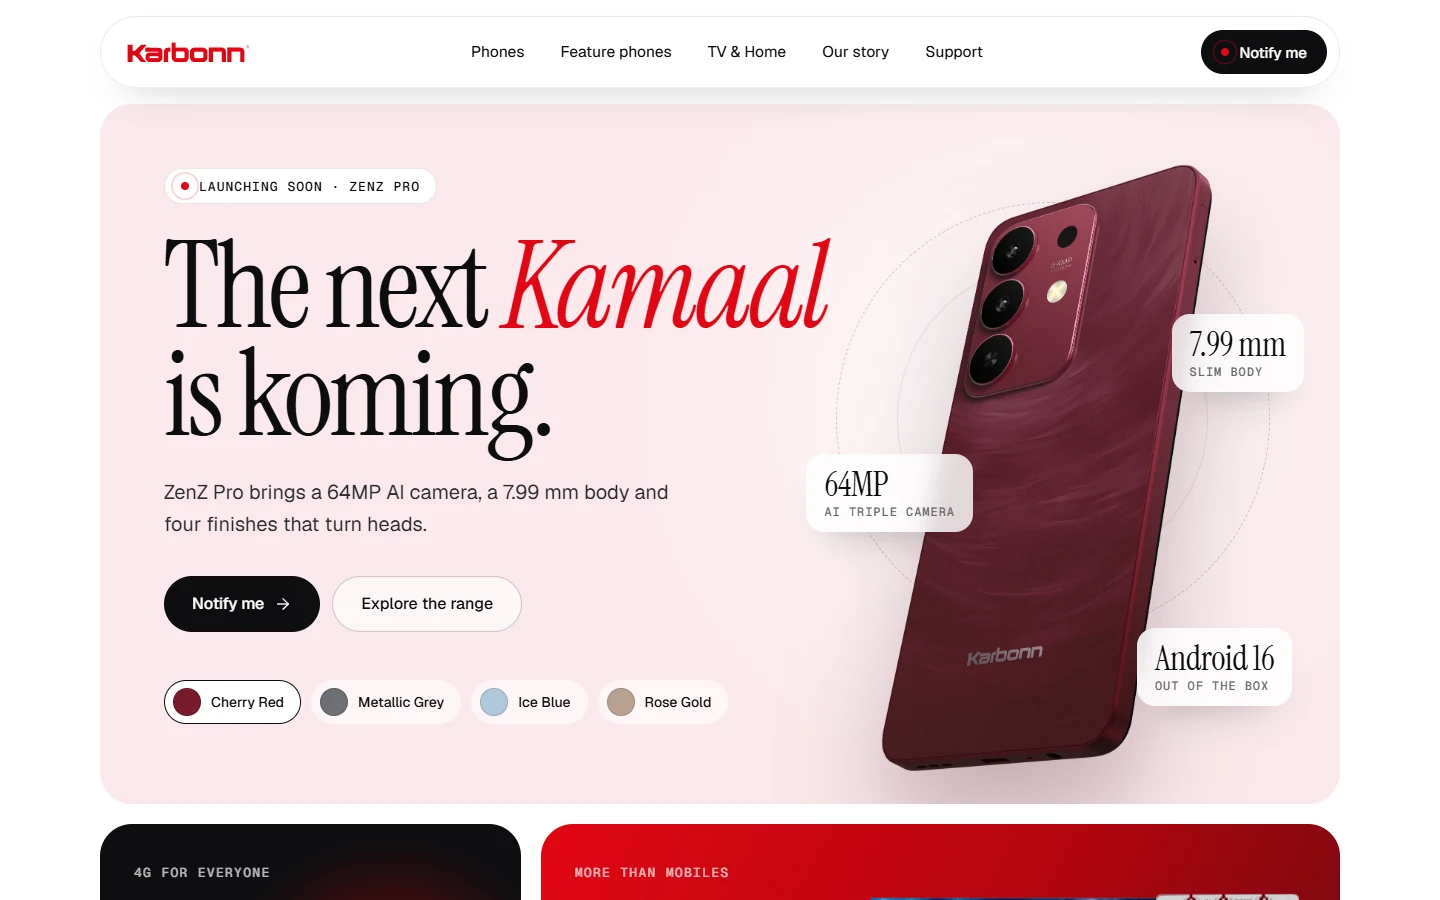
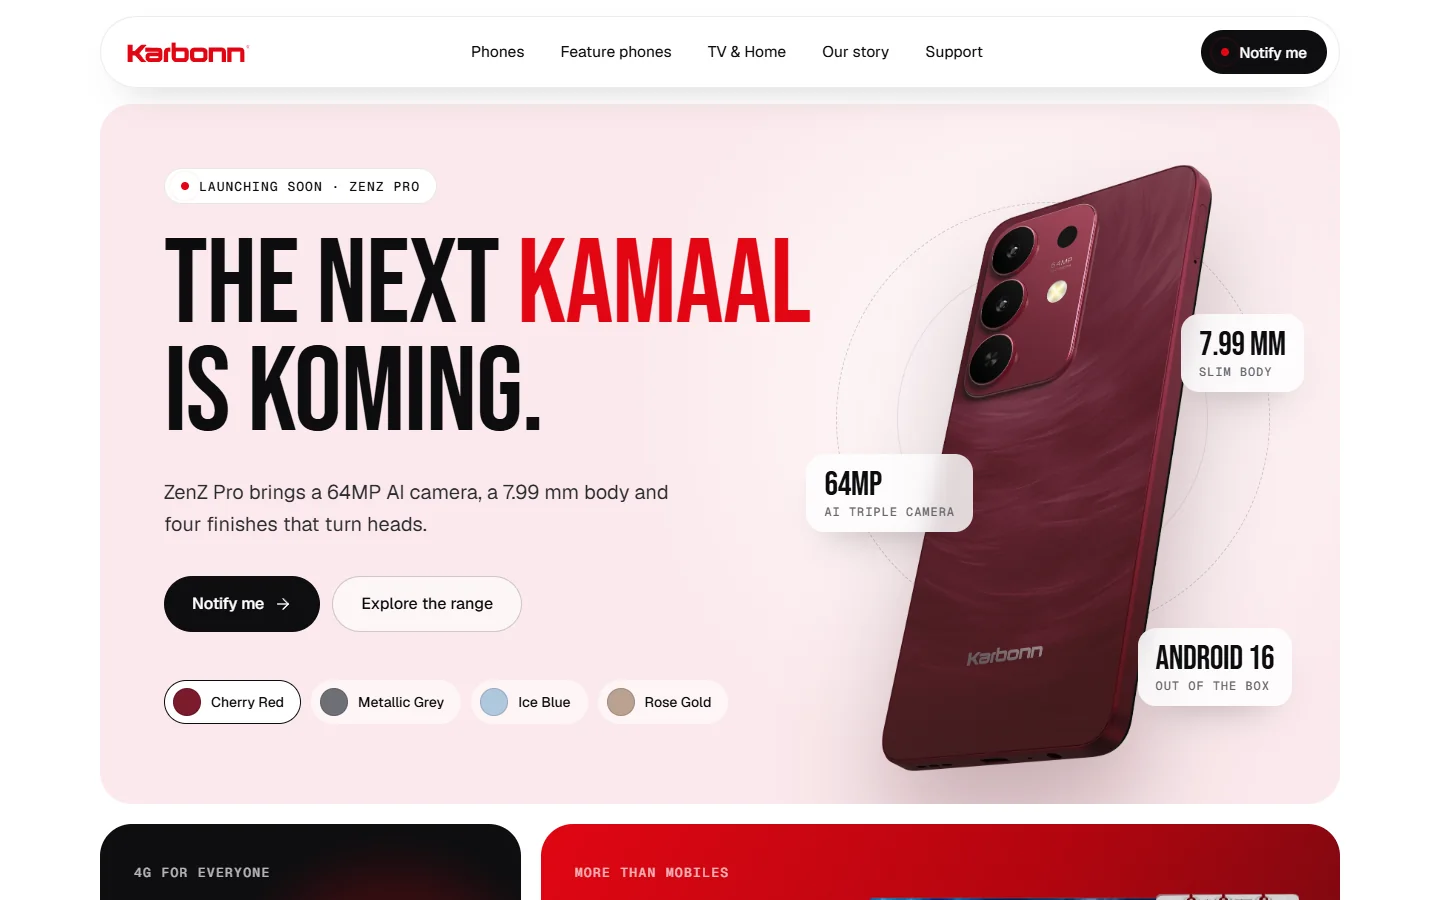
Use Bebas Neue for Site B display type
Replace Instrument Serif with self-hosted Bebas Neue for Site B's headlines,
big numbers, prices and marquees. Bebas Neue has no italic, so the red
accents stay upright, and the negative letter-spacing is eased to -0.01em
to suit its wider default spacing. Its latin-ext subset ships too, so the
rupee sign renders in Bebas Neue. The chooser's Concept B thumbnail is
refreshed to match.

diff --git a/site-b-launch/css/site.css b/site-b-launch/css/site.css
@@ -16,7 +16,7 @@
   --wine: #7A0E1C;
   --black: #0E0E10;
   --tint: #FBE9EC;
-  --display: 'Instrument Serif', Georgia, 'Times New Roman', serif;
+  --display: 'Bebas Neue', Impact, 'Arial Narrow', sans-serif;
   --sans: 'Geist', -apple-system, 'Segoe UI', Helvetica, Arial, sans-serif;
   --mono: 'Geist Mono', ui-monospace, 'SFMono-Regular', Menlo, monospace;
   --ease: cubic-bezier(.2, .7, .2, 1);
@@ -35,8 +35,8 @@ img { display: block; max-width: 100%; height: auto; }
 a { color: inherit; text-decoration: none; }
 button { font: inherit; color: inherit; background: none; border: 0; padding: 0; cursor: pointer; }
 input, select, textarea { font: inherit; color: inherit; }
-h1, h2, h3, h4 { margin: 0; font-family: var(--display); font-weight: 400; letter-spacing: -0.02em; line-height: 1; text-wrap: balance; }
-h1 em, h2 em, h3 em { font-style: italic; color: var(--red); }
+h1, h2, h3, h4 { margin: 0; font-family: var(--display); font-weight: 400; letter-spacing: -0.01em; line-height: 1; text-wrap: balance; }
+h1 em, h2 em, h3 em { font-style: normal; color: var(--red); }
 p, li, dd, figcaption, blockquote, label { text-wrap: pretty; }
 p { margin: 0; }
 ul, ol { margin: 0; padding: 0; list-style: none; }
@@ -58,7 +58,7 @@ html.is-arriving body::after { content: ''; position: fixed; inset: 0; backgroun
 .preloader__logo .logo { width: 100%; height: auto; display: block; }
 .preloader__line { width: 300px; height: 2px; background: rgba(255, 255, 255, .25); overflow: hidden; }
 .preloader__line span { display: block; height: 100%; background: #fff; transform: scaleX(0); transform-origin: left; }
-.preloader__count { position: absolute; right: 48px; bottom: 30px; font: 400 160px/1 var(--display); letter-spacing: -0.03em; }
+.preloader__count { position: absolute; right: 48px; bottom: 30px; font: 400 160px/1 var(--display); letter-spacing: -0.01em; }
 .preloader__tag { position: absolute; left: 48px; bottom: 48px; font: 500 13px/1 var(--mono); letter-spacing: .14em; text-transform: uppercase; }
 .cursor { position: fixed; left: 0; top: 0; z-index: 2400; pointer-events: none; width: 12px; height: 12px; margin: -6px 0 0 -6px; border-radius: 50%; background: var(--red); display: grid; place-items: center; transition: width .35s var(--ease-out), height .35s var(--ease-out), margin .35s var(--ease-out), background-color .3s var(--ease), opacity .3s; opacity: 0; mix-blend-mode: normal; }
 .cursor span { font: 500 13px/1 var(--mono); letter-spacing: .08em; text-transform: uppercase; color: #fff; opacity: 0; transition: opacity .25s var(--ease); white-space: nowrap; }
@@ -124,7 +124,7 @@ html.is-arriving body::after { content: ''; position: fixed; inset: 0; backgroun
 .hero__card { position: relative; border-radius: var(--r); background: var(--tint); min-height: 700px; overflow: hidden; transition: background-color .9s var(--ease); isolation: isolate; }
 .hero__card::before { content: ''; position: absolute; right: -10%; top: -20%; width: 70%; aspect-ratio: 1; border-radius: 50%; background: radial-gradient(circle, rgba(255, 255, 255, .85), rgba(255, 255, 255, 0) 65%); z-index: -1; }
 .hero__copy { position: relative; z-index: 2; padding: 64px 0 64px 64px; width: 62%; }
-.hero h1 { font-size: clamp(100px, 8.6vw, 120px); line-height: .9; letter-spacing: -0.03em; margin: 28px 0 28px; }
+.hero h1 { font-size: clamp(100px, 8.6vw, 120px); line-height: .9; margin: 28px 0 28px; }
 .hero__sub { font-size: 20px; color: var(--ink-2); max-width: 26em; }
 .hero__actions { display: flex; gap: 12px; margin-top: 36px; }
 .swatch-switch { display: flex; gap: 10px; margin-top: 48px; }
@@ -163,8 +163,8 @@ html.is-arriving body::after { content: ''; position: fixed; inset: 0; backgroun
 .marquee { display: flex; overflow: hidden; white-space: nowrap; user-select: none; }
 .marquee__track { display: flex; flex: none; align-items: center; will-change: transform; }
 .big-marquee { padding: 96px 0 72px; }
-.big-marquee .marquee__item { display: inline-flex; align-items: center; gap: 36px; padding-right: 36px; font: 400 168px/1 var(--display); letter-spacing: -0.03em; }
-.big-marquee em { font-style: italic; color: var(--red); }
+.big-marquee .marquee__item { display: inline-flex; align-items: center; gap: 36px; padding-right: 36px; font: 400 168px/1 var(--display); letter-spacing: -0.01em; }
+.big-marquee em { font-style: normal; color: var(--red); }
 .mq-chip { width: 132px; height: 132px; border-radius: 50%; display: grid; place-items: center; flex: none; overflow: hidden; }
 .mq-chip img { height: 84%; width: auto; }
 .mq-chip--blush { background: var(--blush); }
@@ -221,7 +221,7 @@ html.is-arriving body::after { content: ''; position: fixed; inset: 0; backgroun
 .annot__lines path { fill: none; stroke: var(--red); stroke-width: 1.6; stroke-dasharray: 6 8; }
 .annot__lines circle { fill: var(--red); }
 .callout { position: absolute; width: 260px; }
-.callout h3 { font: italic 400 34px/1.05 var(--display); color: var(--ink); }
+.callout h3 { font: 400 34px/1.05 var(--display); color: var(--ink); }
 .callout span { display: block; margin-top: 10px; color: var(--muted); font-size: 15.5px; }
 .callout--tl { left: 0; top: 70px; }
 .callout--bl { left: 0; bottom: 60px; }
@@ -268,7 +268,7 @@ html.is-arriving body::after { content: ''; position: fixed; inset: 0; backgroun
 .b-d p, .b-g p { max-width: 44%; }
 .b-b h3, .b-b p, .b-f h3, .b-f p { max-width: 60%; }
 .b-c p, .b-e p { color: rgba(255, 255, 255, .72); }
-.b-big { font: 400 120px/.9 var(--display); letter-spacing: -0.03em; }
+.b-big { font: 400 120px/.9 var(--display); letter-spacing: -0.01em; }
 .fan { position: absolute; left: 0; right: 0; bottom: 0; top: 34%; }
 .fan img { position: absolute; left: 50%; top: 50%; width: 72%; height: auto; transform-origin: 50% 50%; transition: transform .9s var(--ease-out); }
 .fan img:nth-child(1) { transform: translate(-50%, -78%) rotate(-6deg); }
@@ -371,8 +371,8 @@ html.is-arriving body::after { content: ''; position: fixed; inset: 0; backgroun
 /* ---------- Footer ---------- */
 .ftr { background: var(--black); color: #fff; margin-top: 128px; padding: 96px 0 0; overflow: hidden; }
 .ftr__top { display: grid; grid-template-columns: 1.5fr 1fr 1fr 1fr; gap: 40px; padding-bottom: 72px; }
-.ftr__big { font: 400 72px/.95 var(--display); letter-spacing: -0.02em; }
-.ftr__big em { color: #FF4A55; font-style: italic; }
+.ftr__big { font: 400 72px/.95 var(--display); letter-spacing: -0.01em; }
+.ftr__big em { color: #FF4A55; font-style: normal; }
 .ftr__news { margin-top: 32px; max-width: 420px; }
 .ftr__news .form-fields { display: flex; gap: 10px; }
 .ftr__news .field { flex: 1; }
@@ -388,7 +388,7 @@ html.is-arriving body::after { content: ''; position: fixed; inset: 0; backgroun
 .ftr__social a:hover { background: var(--red); border-color: var(--red); }
 .ftr__social .icon { width: 18px; height: 18px; }
 .ftr__marquee { border-top: 1px solid rgba(255, 255, 255, .1); padding: 28px 0; }
-.ftr__marquee .marquee__item { display: inline-flex; align-items: center; gap: 40px; padding-right: 40px; font: 400 120px/1 var(--display); color: rgba(255, 255, 255, .1); letter-spacing: -0.02em; }
+.ftr__marquee .marquee__item { display: inline-flex; align-items: center; gap: 40px; padding-right: 40px; font: 400 120px/1 var(--display); color: rgba(255, 255, 255, .1); letter-spacing: -0.01em; }
 .ftr__marquee .marquee__item i { color: rgba(225, 6, 19, .6); font-style: normal; font-size: 60px; }
 .ftr__bottom { display: flex; align-items: center; justify-content: space-between; gap: 24px; padding: 24px 0 28px; border-top: 1px solid rgba(255, 255, 255, .1); font-size: 14px; color: rgba(255, 255, 255, .55); }
 .ftr__bottom .credit { color: rgba(255, 255, 255, .85); }
@@ -412,7 +412,7 @@ form.is-sent .form-fields { display: none; }
 
 /* ---------- Range page ---------- */
 .page-top { padding: 132px 0 40px; }
-.page-top h1 { font-size: 150px; line-height: .86; letter-spacing: -0.035em; }
+.page-top h1 { font-size: 150px; line-height: .86; }
 .page-top p { margin-top: 26px; font-size: 20px; color: var(--ink-2); max-width: 32em; }
 .range-tabs { display: flex; flex-wrap: wrap; gap: 8px; margin: 48px 0 40px; }
 .rtab { height: 46px; padding: 0 20px; border-radius: 999px; border: 1px solid var(--line); background: #fff; font-size: 15px; font-weight: 500; white-space: nowrap; display: inline-flex; align-items: center; gap: 10px; transition: background-color .3s var(--ease), color .3s var(--ease), border-color .3s var(--ease); }
@@ -443,9 +443,9 @@ form.is-sent .form-fields { display: none; }
 .p-hero__card { position: relative; border-radius: var(--r); background: var(--tint); min-height: 720px; display: grid; grid-template-columns: 1.1fr .9fr; overflow: hidden; transition: background-color .9s var(--ease); isolation: isolate; }
 .p-hero__copy { padding: 56px; display: flex; flex-direction: column; justify-content: center; align-items: flex-start; position: relative; z-index: 2; }
 .p-hero__colors .sw { padding: 0 14px 0 6px; gap: 8px; font-size: 13.5px; }
-.p-hero__copy h1 { font-size: 128px; line-height: .88; letter-spacing: -0.03em; margin: 22px 0 18px; }
+.p-hero__copy h1 { font-size: 128px; line-height: .88; margin: 22px 0 18px; }
 .p-hero__copy h1.is-long { font-size: 84px; line-height: .94; }
-.p-hero__tag { font: italic 400 34px/1.15 var(--display); color: var(--ink-2); }
+.p-hero__tag { font: 400 34px/1.15 var(--display); color: var(--ink-2); }
 .p-hero__price { display: flex; align-items: center; gap: 14px; margin: 26px 0 0; }
 .p-hero__price strong { font: 400 48px/1 var(--display); }
 .p-hero__price s { color: var(--muted); }
@@ -459,7 +459,7 @@ form.is-sent .form-fields { display: none; }
 .p-hero__num { position: absolute; right: 36px; bottom: 26px; font: 500 13px/1 var(--mono); letter-spacing: .1em; text-transform: uppercase; color: var(--muted); }
 .kspecs { display: grid; grid-template-columns: repeat(4, 1fr); gap: 20px; margin-top: 20px; }
 .kspec { border-radius: var(--r-sm); background: var(--mist); padding: 30px; }
-.kspec strong { display: block; font: 400 64px/1 var(--display); letter-spacing: -0.02em; }
+.kspec strong { display: block; font: 400 64px/1 var(--display); letter-spacing: -0.01em; }
 .kspec span { display: block; margin-top: 12px; color: var(--muted); font-size: 15px; }
 .chapters { display: grid; gap: 20px; }
 .chapter { display: grid; grid-template-columns: 1fr 1fr; gap: 20px; }
@@ -500,7 +500,7 @@ form.is-sent .form-fields { display: none; }
 
 /* ---------- Story page ---------- */
 .story-top { padding: 132px 0 0; }
-.story-top h1 { font-size: 172px; line-height: .84; letter-spacing: -0.04em; }
+.story-top h1 { font-size: 172px; line-height: .84; }
 .story-top__row { display: grid; grid-template-columns: 1.4fr 1fr; gap: 56px; align-items: end; }
 .story-reel { margin-top: 64px; }
 .story-reel .marquee__item { padding-right: 20px; }
@@ -510,11 +510,11 @@ form.is-sent .form-fields { display: none; }
 .bignum:nth-child(2) { background: var(--blush); }
 .bignum:nth-child(3) { background: var(--black); color: #fff; }
 .bignum:nth-child(3) span { color: rgba(255, 255, 255, .6); }
-.bignum strong { display: block; font: 400 104px/.9 var(--display); letter-spacing: -0.03em; }
+.bignum strong { display: block; font: 400 104px/.9 var(--display); letter-spacing: -0.01em; }
 .bignum span { display: block; margin-top: 16px; color: var(--muted); }
 .journey { display: grid; gap: 20px; }
 .jrow { display: grid; grid-template-columns: 260px 1fr 1fr; gap: 40px; align-items: center; padding: 34px 0; border-top: 1px solid var(--line); }
-.jrow strong { font: 400 96px/1 var(--display); color: var(--red); letter-spacing: -0.03em; }
+.jrow strong { font: 400 96px/1 var(--display); color: var(--red); letter-spacing: -0.01em; }
 .jrow h3 { font-size: 44px; line-height: 1; }
 .jrow p { color: var(--muted); font-size: 17px; }
 .vm2 { display: grid; grid-template-columns: 1fr 1fr; gap: 20px; }
@@ -534,7 +534,7 @@ form.is-sent .form-fields { display: none; }
 /* ---------- Support page ---------- */
 .sup-hero { padding: 104px 0 0; }
 .sup-hero__card { position: relative; border-radius: var(--r); background: var(--blush); padding: 72px 64px; display: grid; grid-template-columns: 1.3fr 1fr; gap: 48px; align-items: end; overflow: hidden; }
-.sup-hero__card h1 { font-size: 140px; line-height: .86; letter-spacing: -0.035em; }
+.sup-hero__card h1 { font-size: 140px; line-height: .86; }
 .sup-hero__card p { font-size: 20px; color: var(--ink-2); margin-top: 22px; max-width: 26em; }
 .hotline { border-radius: var(--r-sm); background: var(--black); color: #fff; padding: 34px; }
 .hotline strong { display: block; font: 400 56px/1 var(--display); margin: 14px 0 10px; }

diff --git a/shared/fonts/fonts.css b/shared/fonts/fonts.css
@@ -1,4 +1,4 @@
-/* Self-hosted Google Fonts (SIL Open Font License), latin subset. Generated by tools/img/fetch_fonts.py */
+/* Self-hosted Google Fonts (SIL Open Font License), latin subset; Bebas Neue adds latin-ext for the rupee sign. Generated by tools/img/fetch_fonts.py */
 @font-face {
   font-family: 'Source Serif 4';
   font-style: italic;
@@ -53,4 +53,22 @@
   font-weight: 100 900;
   font-display: swap;
   src: url('geist-mono-normal.woff2') format('woff2');
+}
+
+@font-face {
+  font-family: 'Bebas Neue';
+  font-style: normal;
+  font-weight: 400;
+  font-display: swap;
+  src: url('bebas-neue-normal-latin-ext.woff2') format('woff2');
+  unicode-range: U+0100-02BA, U+02BD-02C5, U+02C7-02CC, U+02CE-02D7, U+02DD-02FF, U+0304, U+0308, U+0329, U+1D00-1DBF, U+1E00-1E9F, U+1EF2-1EFF, U+2020, U+20A0-20AB, U+20AD-20C4, U+2113, U+2C60-2C7F, U+A720-A7FF;
+}
+
+@font-face {
+  font-family: 'Bebas Neue';
+  font-style: normal;
+  font-weight: 400;
+  font-display: swap;
+  src: url('bebas-neue-normal.woff2') format('woff2');
+  unicode-range: U+0000-00FF, U+0131, U+0152-0153, U+02BB-02BC, U+02C6, U+02DA, U+02DC, U+0304, U+0308, U+0329, U+2000-206F, U+20AC, U+2122, U+2191, U+2193, U+2212, U+2215, U+FEFF, U+FFFD;
 }

diff --git a/README.md b/README.md
@@ -46,7 +46,7 @@ site-a-store/         Concept A: index, shop, product, about, support
 site-b-launch/        Concept B: index, range, product, story, support
 shared/data/          products.js (all content), icons.js, logo.js
 shared/img/           optimised product, brand and people images (WebP)
-shared/fonts/         self-hosted fonts (Source Serif 4, Outfit, Instrument Serif, Geist)
+shared/fonts/         self-hosted fonts (Source Serif 4, Outfit, Bebas Neue, Instrument Serif, Geist)
 shared/vendor/        GSAP, ScrollTrigger and Lenis (local copies, licences in LICENSES.txt)
 shared/js/            common.js (helpers), motion.js (animation engine)
 tools/                image pipeline and automated checks
